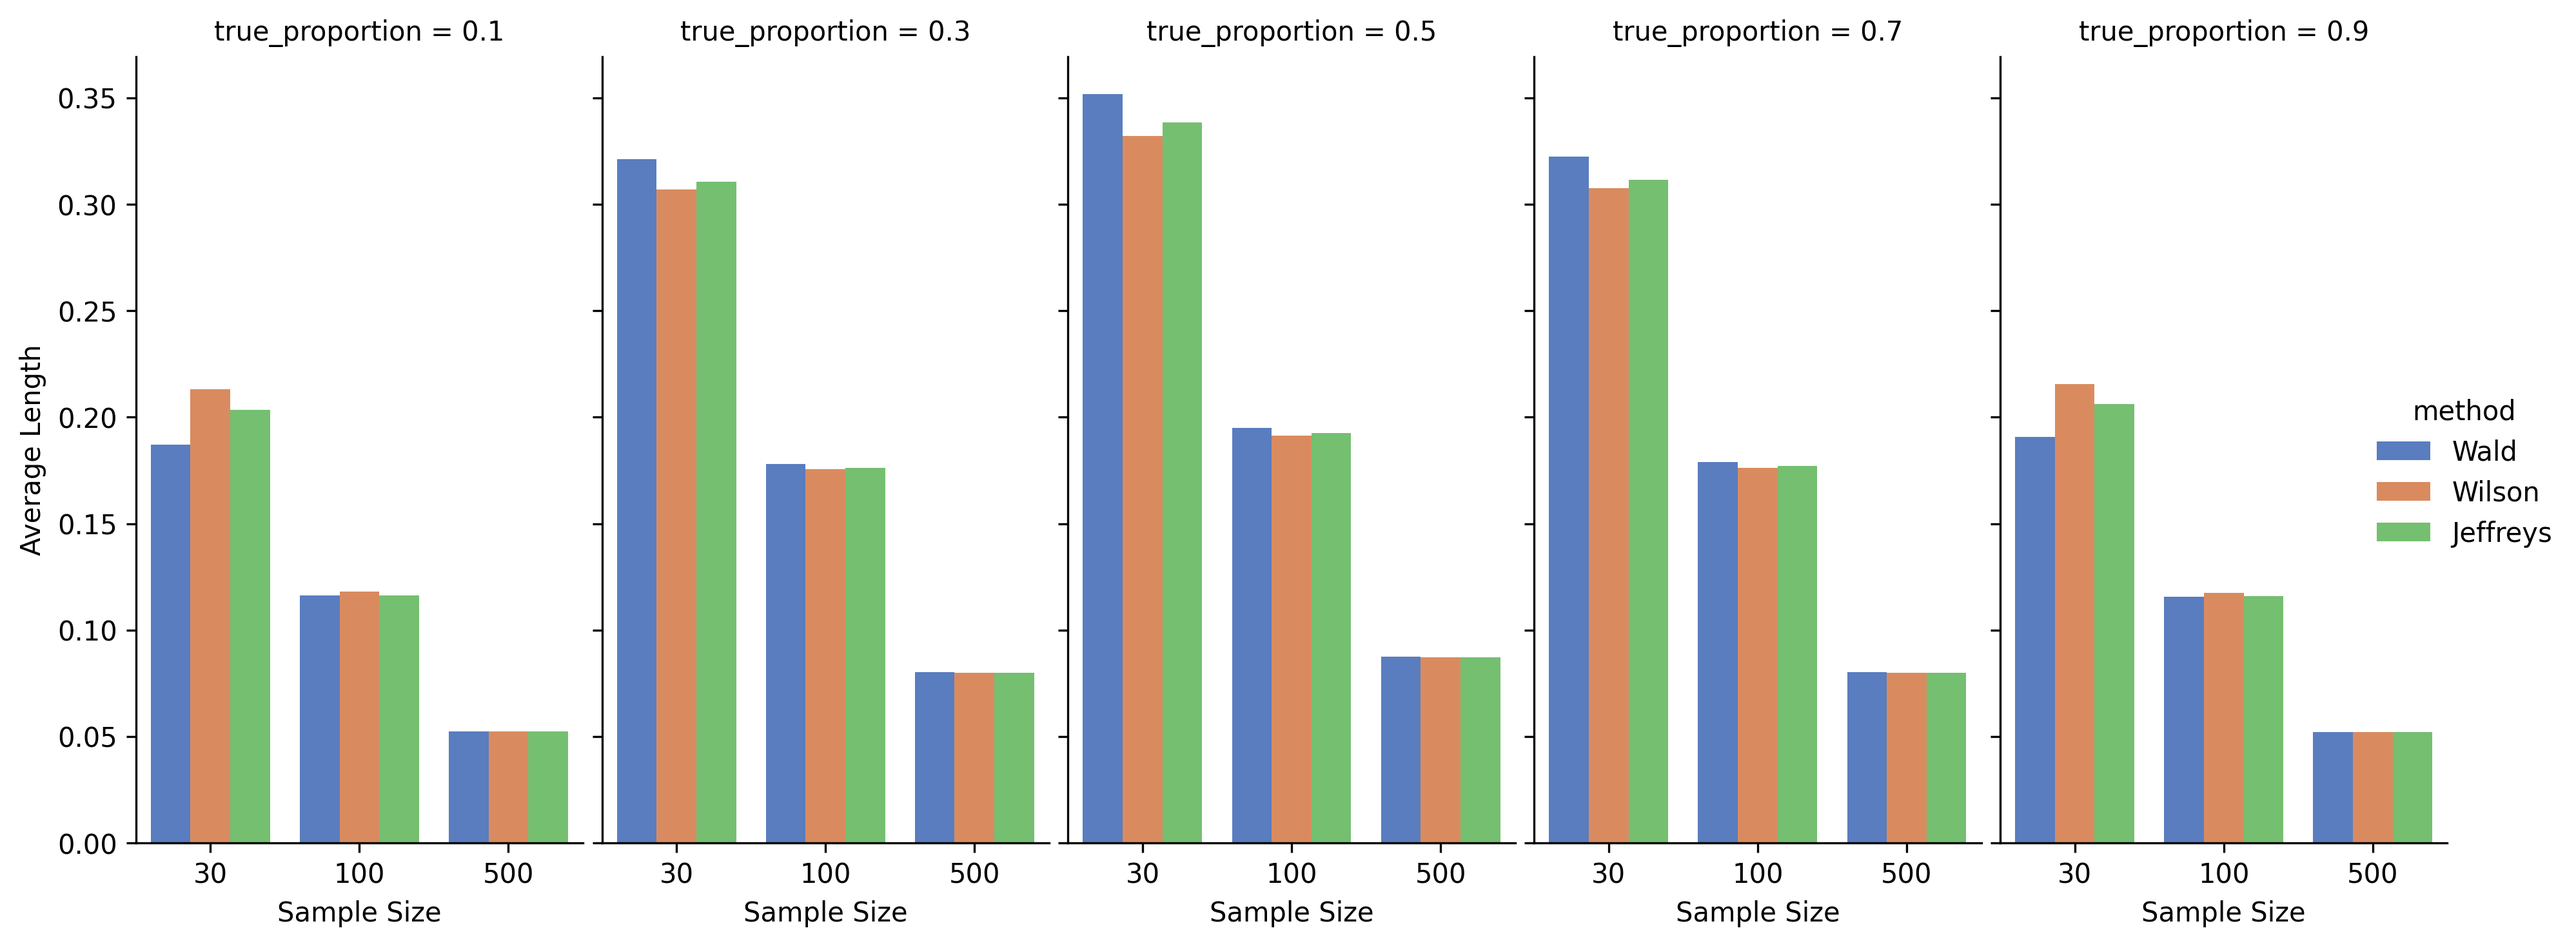
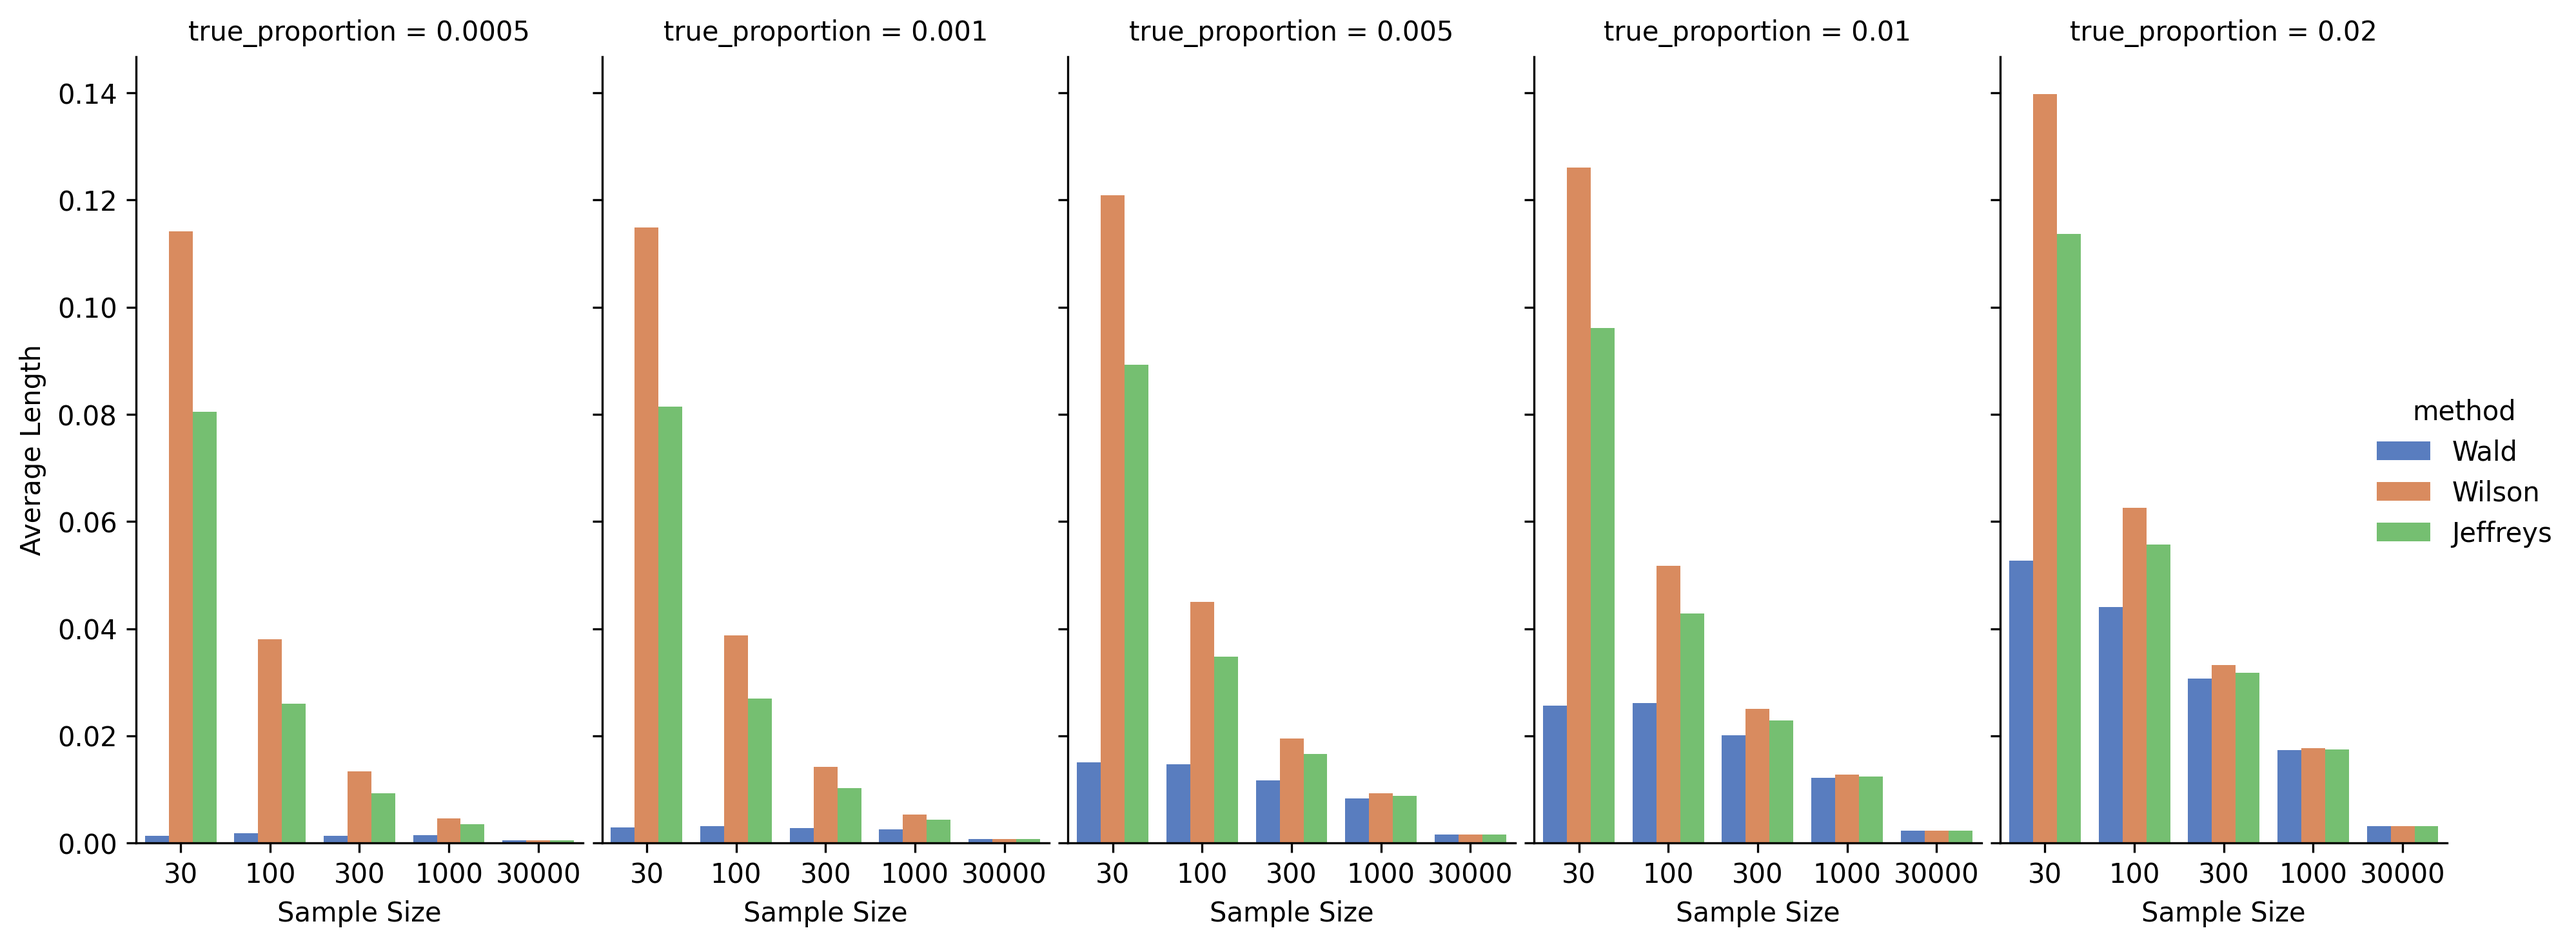
updated codes

diff --git a/compare-interval-est-methods_2025.03.28_DZ.py b/compare-interval-est-methods_2025.03.28_DZ.py
@@ -18,10 +18,23 @@ import numpy as np
 np.random.seed(123)
 
 # Define the parameters for the binomial distribution
-sample_sizes = [30, 100, 500]
+sample_sizes = [30, 100, 300, 1000, 30000] 
+
+# 30: very small cohort (typically single center studies)
+# 100: small multicenter studies
+# 300: modest registry
+# 1000: larger national-level data
+# 30000: large cohort studies
+
 
 # true_proportion = [0.1, 0.3, 0.5, 0.7, 0.9]
-true_proportion = np.linspace(0.001, 0.1, 5)
+true_proportion = [0.0005, 0.001, 0.005, 0.01, 0.02]
+
+# 0.05% (extremely rare, like mortality in some rare conditions)
+# 0.1% (rare events)
+# 0.5% (low but detectable)
+# 1% (moderate)
+# 2% (still rare but “higher-risk” subgroup)
 
 # Number of simulations
 n_simulations = 1000
@@ -186,8 +199,9 @@ results_precision.head(20)
 import matplotlib.pyplot as plt
 import seaborn as sns
 
+sns.set_context("talk", font_scale=1.2)
 
-# To illustrate coverage probabilities by methods, draw the bar plot grouped by method, split by sample size
+# Create the catplot WITHOUT automatic legend
 barplot_coverage = sns.catplot(
     data=results,
     x='sample_size', 
@@ -195,21 +209,23 @@ barplot_coverage = sns.catplot(
     hue='method',
     col='true_proportion',
     kind='bar',
-    # height=4,
-    # aspect=0.8,
     height=5,
     aspect=1.2,
     palette='muted',
-    ci=None)
+    ci=None,
+    legend=True)  
+
+# Set labels and limits
 barplot_coverage.set_axis_labels("Sample Size", "Coverage Probability")
 barplot_coverage.set(ylim=(0.75, 1.05))
 
-# Add a horizontal line at y = 0.95 to all facets
+# Add horizontal line
 for ax in barplot_coverage.axes.flat:
-    ax.axhline(0.95, ls='--', color='red', linewidth=1.2)  # dashed red line
+    ax.axhline(0.95, ls='--', color='red', linewidth=1.2)
 
-plt.show()
+# Save the plot
 barplot_coverage.savefig("barplot_coverage_facet.png", dpi=300, bbox_inches='tight')
+
 
 
 # To illustrate precisions (95 CI width) by methods, draw the bar plot grouped by method, split by sample size
